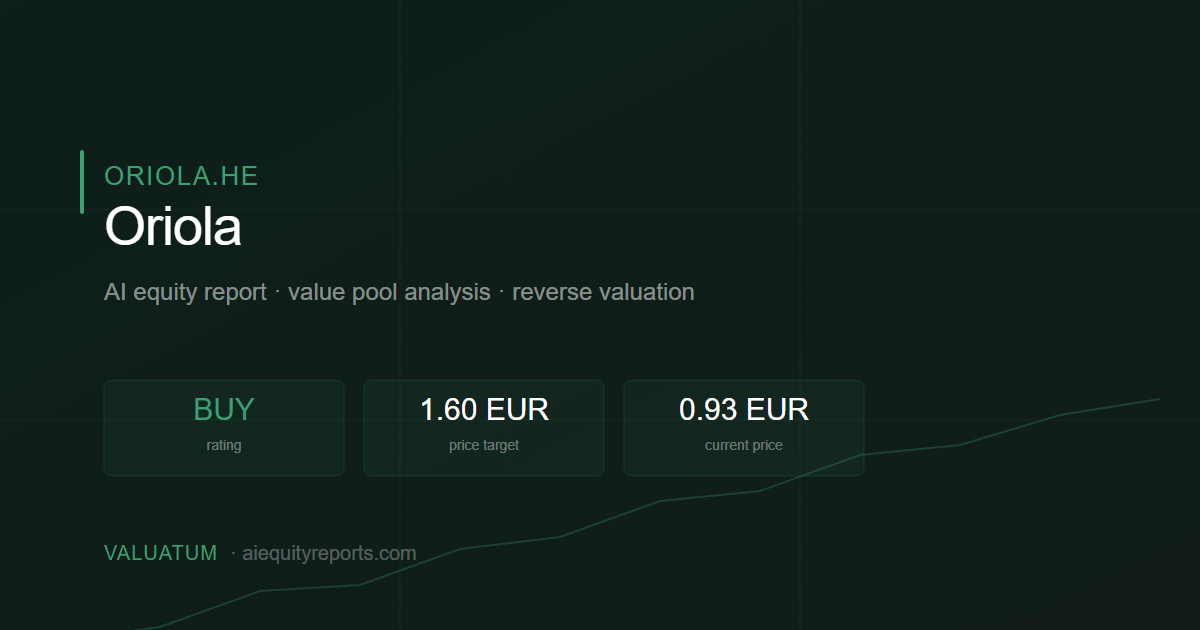
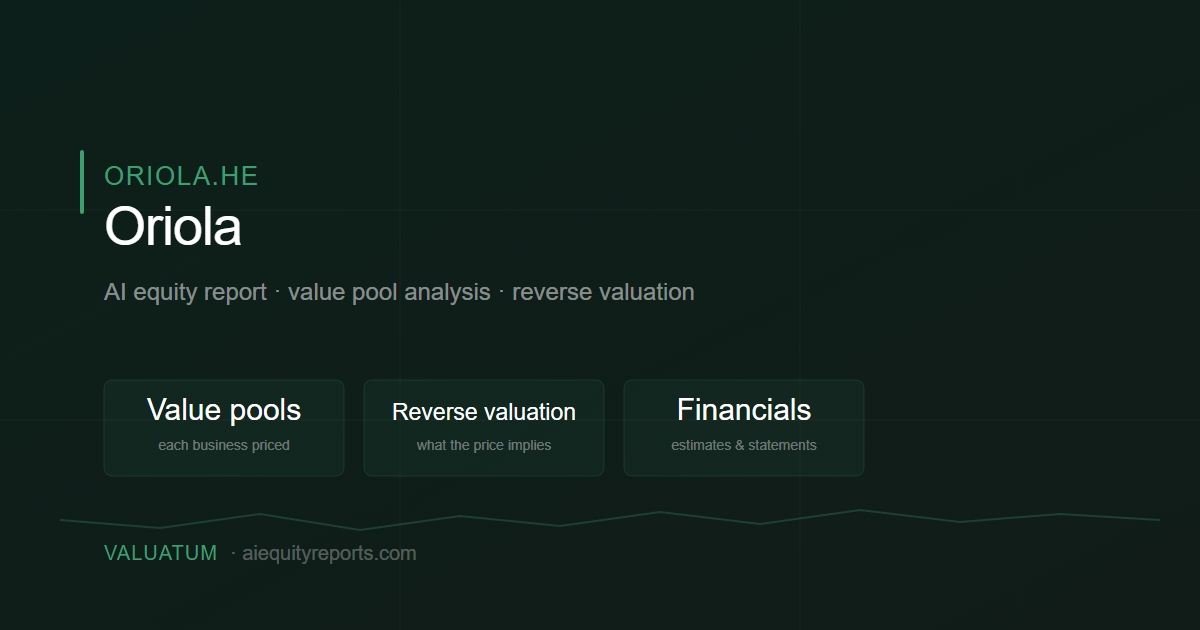
Keep the verdict off the surfaces that travel without the page
A title and a share card go where the page does not. A search result reading
"SELL, €17.10 Target" carries none of the "AI-generated research, not
investment advice" the page carries, and an AI answer repeats the verdict
stripped of every qualifier around it. Whether we publish recommendations in
that form is a compliance question and it is still open, so the default is now
not to.

scripts/seo-flags.mjs is the single switch. Off, it removes the rating and
target from <title>, og:title, og:/twitter:description and the card art --
including the accent colour and the slope of the trend line, which state a
verdict without words. The 17 affected pages read "Stock Analysis & Price
Target", which also keeps them distinct from the 1,157 overview pages instead
of competing for the same query.

The SEO cost is small and worth naming: the win was title LENGTH, median 108
characters against Google's ~60, and that is untouched. Only 17 of 1,174 pages
ever carried a rating.

What this deliberately does NOT change: <meta name="description"> still states
the rating, and so do the page body above the paywall and llms.txt. Those are
the wider publication decision, not a share-card one, and changing the snippet
silently would be the wrong call to make on someone's behalf. The flag is
named for metadata, not for compliance: turning it on does not make the site
compliant, and leaving it off does not make it silent.
[…]

diff --git a/reports/recursion-pharmaceuticals-equity-report.html b/reports/recursion-pharmaceuticals-equity-report.html
@@ -3,21 +3,21 @@
 <head>
   <meta charset="UTF-8">
   <meta name="viewport" content="width=device-width, initial-scale=1.0">
-  <title>Recursion Pharmaceuticals (RXRX) Stock Analysis — SELL $4.10</title>
+  <title>Recursion Pharmaceuticals (RXRX) Stock Analysis &amp; Valuation</title>
   <meta name="description" content="Recursion Pharmaceuticals (RXRX) stock analysis &amp; AI equity report: Valuatum rates RXRX SELL with a 4.10 USD price target vs 4.84 USD. Share price forecast, valuation, segment-value analysis, reverse valuation, financials, risks &amp; catalysts.">
   <link rel="canonical" href="https://www.aiequityreports.com/reports/recursion-pharmaceuticals-equity-report.html">
   <meta name="robots" content="index, follow, max-image-preview:large, max-snippet:-1">
   <meta name="valuatum-report-id" content="recursion-02062026">
   <meta name="valuatum-page-mode" content="paid">
-  <meta property="og:title" content="Recursion Pharmaceuticals (RXRX) Stock Analysis — SELL $4.10">
-  <meta property="og:description" content="Recursion Pharmaceuticals (RXRX) stock analysis &amp; AI equity report: Valuatum rates RXRX SELL with a 4.10 USD price target vs 4.84 USD. Share price forecast, valuation, segment-value analysis, reverse valuation, financials, risks &amp; catalysts.">
+  <meta property="og:title" content="Recursion Pharmaceuticals (RXRX) Stock Analysis &amp; Valuation">
+  <meta property="og:description" content="Recursion Pharmaceuticals (RXRX) stock analysis &amp; AI equity report: segment-value analysis, reverse valuation, financial estimates, risks &amp; catalysts, with a 12-month price target.">
   <meta property="og:type" content="article">
   <meta property="og:url" content="https://www.aiequityreports.com/reports/recursion-pharmaceuticals-equity-report.html">
   <meta property="og:image" content="https://www.aiequityreports.com/images/og/recursion-pharmaceuticals-equity-report.png">
   <meta property="article:published_time" content="2026-06-02">
   <meta name="twitter:card" content="summary_large_image">
   <meta name="twitter:title" content="Recursion Pharmaceuticals (RXRX) AI Equity Report">
-  <meta name="twitter:description" content="Recursion Pharmaceuticals (RXRX) stock analysis &amp; AI equity report: Valuatum rates RXRX SELL with a 4.10 USD price target vs 4.84 USD. Share price forecast, valuation, segment-value analysis, reverse valuation, financials, risks &amp; catalysts.">
+  <meta name="twitter:description" content="Recursion Pharmaceuticals (RXRX) stock analysis &amp; AI equity report: segment-value analysis, reverse valuation, financial estimates, risks &amp; catalysts, with a 12-month price target.">
   <meta name="twitter:image" content="https://www.aiequityreports.com/images/og/recursion-pharmaceuticals-equity-report.png">
   <script async src="https://www.googletagmanager.com/gtag/js?id=G-HSRL85C0K5"></script>
   <script>window.dataLayer=window.dataLayer||[];function gtag(){dataLayer.push(arguments);}gtag('js',new Date());gtag('config','G-HSRL85C0K5');</script>

diff --git a/reports/advanced-micro-devices-equity-report.html b/reports/advanced-micro-devices-equity-report.html
@@ -3,21 +3,21 @@
 <head>
   <meta charset="UTF-8">
   <meta name="viewport" content="width=device-width, initial-scale=1.0">
-  <title>Advanced Micro Devices (AMD) Stock Analysis — HOLD $490.50</title>
+  <title>Advanced Micro Devices (AMD) Stock Analysis &amp; Price Target</title>
   <meta name="description" content="Advanced Micro Devices (AMD) stock analysis &amp; AI equity report: Valuatum rates AMD HOLD with a 490.50 USD price target vs 482.05 USD. Share price forecast, valuation, segment-value analysis, reverse valuation, financials, risks &amp; catalysts.">
   <link rel="canonical" href="https://www.aiequityreports.com/reports/advanced-micro-devices-equity-report.html">
   <meta name="robots" content="index, follow, max-image-preview:large, max-snippet:-1">
   <meta name="valuatum-report-id" content="advancedmicrodevices-06082026">
   <meta name="valuatum-page-mode" content="paid">
-  <meta property="og:title" content="Advanced Micro Devices (AMD) Stock Analysis — HOLD $490.50">
-  <meta property="og:description" content="Advanced Micro Devices (AMD) stock analysis &amp; AI equity report: Valuatum rates AMD HOLD with a 490.50 USD price target vs 482.05 USD. Share price forecast, valuation, segment-value analysis, reverse valuation, financials, risks &amp; catalysts.">
+  <meta property="og:title" content="Advanced Micro Devices (AMD) Stock Analysis &amp; Price Target">
+  <meta property="og:description" content="Advanced Micro Devices (AMD) stock analysis &amp; AI equity report: segment-value analysis, reverse valuation, financial estimates, risks &amp; catalysts, with a 12-month price target.">
   <meta property="og:type" content="article">
   <meta property="og:url" content="https://www.aiequityreports.com/reports/advanced-micro-devices-equity-report.html">
   <meta property="og:image" content="https://www.aiequityreports.com/images/og/advanced-micro-devices-equity-report.png">
   <meta property="article:published_time" content="2026-08-06">
   <meta name="twitter:card" content="summary_large_image">
   <meta name="twitter:title" content="Advanced Micro Devices (AMD) AI Equity Report">
-  <meta name="twitter:description" content="Advanced Micro Devices (AMD) stock analysis &amp; AI equity report: Valuatum rates AMD HOLD with a 490.50 USD price target vs 482.05 USD. Share price forecast, valuation, segment-value analysis, reverse valuation, financials, risks &amp; catalysts.">
+  <meta name="twitter:description" content="Advanced Micro Devices (AMD) stock analysis &amp; AI equity report: segment-value analysis, reverse valuation, financial estimates, risks &amp; catalysts, with a 12-month price target.">
   <meta name="twitter:image" content="https://www.aiequityreports.com/images/og/advanced-micro-devices-equity-report.png">
   <script async src="https://www.googletagmanager.com/gtag/js?id=G-HSRL85C0K5"></script>
   <script>window.dataLayer=window.dataLayer||[];function gtag(){dataLayer.push(arguments);}gtag('js',new Date());gtag('config','G-HSRL85C0K5');</script>

diff --git a/reports/novo-nordisk-equity-report.html b/reports/novo-nordisk-equity-report.html
@@ -3,21 +3,21 @@
 <head>
   <meta charset="UTF-8">
   <meta name="viewport" content="width=device-width, initial-scale=1.0">
-  <title>Novo Nordisk A/S (NOVO-B.CO) Stock Analysis — BUY 404.50 DKK</title>
+  <title>Novo Nordisk A/S (NOVO-B.CO) Stock Analysis &amp; Price Target</title>
   <meta name="description" content="Novo Nordisk A/S (NOVO-B.CO) stock analysis &amp; AI equity report: Valuatum rates NOVO-B.CO BUY with a 404.50 DKK price target vs 300.15 DKK. Share price forecast, valuation, segment-value analysis, reverse valuation, financials, risks &amp; catalysts.">
   <link rel="canonical" href="https://www.aiequityreports.com/reports/novo-nordisk-equity-report.html">
   <meta name="robots" content="index, follow, max-image-preview:large, max-snippet:-1">
   <meta name="valuatum-report-id" content="novonordisk-20082026">
   <meta name="valuatum-page-mode" content="paid">
-  <meta property="og:title" content="Novo Nordisk A/S (NOVO-B.CO) Stock Analysis — BUY 404.50 DKK">
-  <meta property="og:description" content="Novo Nordisk A/S (NOVO-B.CO) stock analysis &amp; AI equity report: Valuatum rates NOVO-B.CO BUY with a 404.50 DKK price target vs 300.15 DKK. Share price forecast, valuation, segment-value analysis, reverse valuation, financials, risks &amp; catalysts.">
+  <meta property="og:title" content="Novo Nordisk A/S (NOVO-B.CO) Stock Analysis &amp; Price Target">
+  <meta property="og:description" content="Novo Nordisk A/S (NOVO-B.CO) stock analysis &amp; AI equity report: segment-value analysis, reverse valuation, financial estimates, risks &amp; catalysts, with a 12-month price target.">
   <meta property="og:type" content="article">
   <meta property="og:url" content="https://www.aiequityreports.com/reports/novo-nordisk-equity-report.html">
   <meta property="og:image" content="https://www.aiequityreports.com/images/og/novo-nordisk-equity-report.png">
   <meta property="article:published_time" content="2026-08-20">
   <meta name="twitter:card" content="summary_large_image">
   <meta name="twitter:title" content="Novo Nordisk A/S (NOVO-B.CO) AI Equity Report">
-  <meta name="twitter:description" content="Novo Nordisk A/S (NOVO-B.CO) stock analysis &amp; AI equity report: Valuatum rates NOVO-B.CO BUY with a 404.50 DKK price target vs 300.15 DKK. Share price forecast, valuation, segment-value analysis, reverse valuation, financials, risks &amp; catalysts.">
+  <meta name="twitter:description" content="Novo Nordisk A/S (NOVO-B.CO) stock analysis &amp; AI equity report: segment-value analysis, reverse valuation, financial estimates, risks &amp; catalysts, with a 12-month price target.">
   <meta name="twitter:image" content="https://www.aiequityreports.com/images/og/novo-nordisk-equity-report.png">
   <script async src="https://www.googletagmanager.com/gtag/js?id=G-HSRL85C0K5"></script>
   <script>window.dataLayer=window.dataLayer||[];function gtag(){dataLayer.push(arguments);}gtag('js',new Date());gtag('config','G-HSRL85C0K5');</script>

diff --git a/reports/wartsila-equity-report.html b/reports/wartsila-equity-report.html
@@ -3,21 +3,21 @@
 <head>
   <meta charset="UTF-8">
   <meta name="viewport" content="width=device-width, initial-scale=1.0">
-  <title>Wärtsilä Oyj Abp (WRT1V.HE) Stock Analysis — HOLD €32.10</title>
+  <title>Wärtsilä Oyj Abp (WRT1V.HE) Stock Analysis &amp; Price Target</title>
   <meta name="description" content="Wärtsilä Oyj Abp (WRT1V.HE) stock analysis &amp; AI equity report: Valuatum rates WRT1V.HE HOLD with a 32.10 EUR price target vs 31.89 EUR. Share price forecast, valuation, segment-value analysis, reverse valuation, financials, risks &amp; catalysts.">
   <link rel="canonical" href="https://www.aiequityreports.com/reports/wartsila-equity-report.html">
   <meta name="robots" content="index, follow, max-image-preview:large, max-snippet:-1">
   <meta name="valuatum-report-id" content="wartsila-07072026">
   <meta name="valuatum-page-mode" content="paid">
-  <meta property="og:title" content="Wärtsilä Oyj Abp (WRT1V.HE) Stock Analysis — HOLD €32.10">
-  <meta property="og:description" content="Wärtsilä Oyj Abp (WRT1V.HE) stock analysis &amp; AI equity report: Valuatum rates WRT1V.HE HOLD with a 32.10 EUR price target vs 31.89 EUR. Share price forecast, valuation, segment-value analysis, reverse valuation, financials, risks &amp; catalysts.">
+  <meta property="og:title" content="Wärtsilä Oyj Abp (WRT1V.HE) Stock Analysis &amp; Price Target">
+  <meta property="og:description" content="Wärtsilä Oyj Abp (WRT1V.HE) stock analysis &amp; AI equity report: segment-value analysis, reverse valuation, financial estimates, risks &amp; catalysts, with a 12-month price target.">
   <meta property="og:type" content="article">
   <meta property="og:url" content="https://www.aiequityreports.com/reports/wartsila-equity-report.html">
   <meta property="og:image" content="https://www.aiequityreports.com/images/og/wartsila-equity-report.png">
   <meta property="article:published_time" content="2026-07-07">
   <meta name="twitter:card" content="summary_large_image">
   <meta name="twitter:title" content="Wärtsilä Oyj Abp (WRT1V.HE) AI Equity Report">
-  <meta name="twitter:description" content="Wärtsilä Oyj Abp (WRT1V.HE) stock analysis &amp; AI equity report: Valuatum rates WRT1V.HE HOLD with a 32.10 EUR price target vs 31.89 EUR. Share price forecast, valuation, segment-value analysis, reverse valuation, financials, risks &amp; catalysts.">
+  <meta name="twitter:description" content="Wärtsilä Oyj Abp (WRT1V.HE) stock analysis &amp; AI equity report: segment-value analysis, reverse valuation, financial estimates, risks &amp; catalysts, with a 12-month price target.">
   <meta name="twitter:image" content="https://www.aiequityreports.com/images/og/wartsila-equity-report.png">
   <script async src="https://www.googletagmanager.com/gtag/js?id=G-HSRL85C0K5"></script>
   <script>window.dataLayer=window.dataLayer||[];function gtag(){dataLayer.push(arguments);}gtag('js',new Date());gtag('config','G-HSRL85C0K5');</script>

diff --git a/reports/pandora-equity-report.html b/reports/pandora-equity-report.html
@@ -3,21 +3,21 @@
 <head>
   <meta charset="UTF-8">
   <meta name="viewport" content="width=device-width, initial-scale=1.0">
-  <title>Pandora A/S (PNDORA.CO) Stock Analysis — BUY 1112.30 DKK</title>
+  <title>Pandora A/S (PNDORA.CO) Stock Analysis &amp; Price Target</title>
   <meta name="description" content="Pandora A/S (PNDORA.CO) stock analysis &amp; AI equity report: Valuatum rates PNDORA.CO BUY with a 1,112.30 DKK price target vs 807.40 DKK. Share price forecast, valuation, segment-value analysis, reverse valuation, financials, risks &amp; catalysts.">
   <link rel="canonical" href="https://www.aiequityreports.com/reports/pandora-equity-report.html">
   <meta name="robots" content="index, follow, max-image-preview:large, max-snippet:-1">
   <meta name="valuatum-report-id" content="pandoraas-30072026">
   <meta name="valuatum-page-mode" content="paid">
-  <meta property="og:title" content="Pandora A/S (PNDORA.CO) Stock Analysis — BUY 1112.30 DKK">
-  <meta property="og:description" content="Pandora A/S (PNDORA.CO) stock analysis &amp; AI equity report: Valuatum rates PNDORA.CO BUY with a 1,112.30 DKK price target vs 807.40 DKK. Share price forecast, valuation, segment-value analysis, reverse valuation, financials, risks &amp; catalysts.">
+  <meta property="og:title" content="Pandora A/S (PNDORA.CO) Stock Analysis &amp; Price Target">
+  <meta property="og:description" content="Pandora A/S (PNDORA.CO) stock analysis &amp; AI equity report: segment-value analysis, reverse valuation, financial estimates, risks &amp; catalysts, with a 12-month price target.">
   <meta property="og:type" content="article">
   <meta property="og:url" content="https://www.aiequityreports.com/reports/pandora-equity-report.html">
   <meta property="og:image" content="https://www.aiequityreports.com/images/og/pandora-equity-report.png">
   <meta property="article:published_time" content="2026-07-30">
   <meta name="twitter:card" content="summary_large_image">
   <meta name="twitter:title" content="Pandora A/S (PNDORA.CO) AI Equity Report">
-  <meta name="twitter:description" content="Pandora A/S (PNDORA.CO) stock analysis &amp; AI equity report: Valuatum rates PNDORA.CO BUY with a 1,112.30 DKK price target vs 807.40 DKK. Share price forecast, valuation, segment-value analysis, reverse valuation, financials, risks &amp; catalysts.">
+  <meta name="twitter:description" content="Pandora A/S (PNDORA.CO) stock analysis &amp; AI equity report: segment-value analysis, reverse valuation, financial estimates, risks &amp; catalysts, with a 12-month price target.">
   <meta name="twitter:image" content="https://www.aiequityreports.com/images/og/pandora-equity-report.png">
   <script async src="https://www.googletagmanager.com/gtag/js?id=G-HSRL85C0K5"></script>
   <script>window.dataLayer=window.dataLayer||[];function gtag(){dataLayer.push(arguments);}gtag('js',new Date());gtag('config','G-HSRL85C0K5');</script>

diff --git a/reports/stora-enso-equity-report.html b/reports/stora-enso-equity-report.html
@@ -3,21 +3,21 @@
 <head>
   <meta charset="UTF-8">
   <meta name="viewport" content="width=device-width, initial-scale=1.0">
-  <title>Stora Enso (STERV.HE) Stock Analysis — BUY, €15.80 Target</title>
+  <title>Stora Enso (STERV.HE) Stock Analysis &amp; Price Target</title>
   <meta name="description" content="Stora Enso (STERV.HE) stock analysis &amp; AI equity report: Valuatum rates STERV.HE BUY with a 15.80 EUR price target vs 9.44 EUR. Share price forecast, valuation, segment-value analysis, reverse valuation, financials, risks &amp; catalysts.">
   <link rel="canonical" href="https://www.aiequityreports.com/reports/stora-enso-equity-report.html">
   <meta name="robots" content="index, follow, max-image-preview:large, max-snippet:-1">
   <meta name="valuatum-report-id" content="storaenso-18082026">
   <meta name="valuatum-page-mode" content="free">
-  <meta property="og:title" content="Stora Enso (STERV.HE) Stock Analysis — BUY, €15.80 Target">
-  <meta property="og:description" content="Stora Enso (STERV.HE) stock analysis &amp; AI equity report: Valuatum rates STERV.HE BUY with a 15.80 EUR price target vs 9.44 EUR. Share price forecast, valuation, segment-value analysis, reverse valuation, financials, risks &amp; catalysts.">
+  <meta property="og:title" content="Stora Enso (STERV.HE) Stock Analysis &amp; Price Target">
+  <meta property="og:description" content="Stora Enso (STERV.HE) stock analysis &amp; AI equity report: segment-value analysis, reverse valuation, financial estimates, risks &amp; catalysts, with a 12-month price target.">
   <meta property="og:type" content="article">
   <meta property="og:url" content="https://www.aiequityreports.com/reports/stora-enso-equity-report.html">
   <meta property="og:image" content="https://www.aiequityreports.com/images/og/stora-enso-equity-report.png">
   <meta property="article:published_time" content="2026-08-18">
   <meta name="twitter:card" content="summary_large_image">
   <meta name="twitter:title" content="Stora Enso (STERV.HE) AI Equity Report">
-  <meta name="twitter:description" content="Stora Enso (STERV.HE) stock analysis &amp; AI equity report: Valuatum rates STERV.HE BUY with a 15.80 EUR price target vs 9.44 EUR. Share price forecast, valuation, segment-value analysis, reverse valuation, financials, risks &amp; catalysts.">
+  <meta name="twitter:description" content="Stora Enso (STERV.HE) stock analysis &amp; AI equity report: segment-value analysis, reverse valuation, financial estimates, risks &amp; catalysts, with a 12-month price target.">
   <meta name="twitter:image" content="https://www.aiequityreports.com/images/og/stora-enso-equity-report.png">
   <script async src="https://www.googletagmanager.com/gtag/js?id=G-HSRL85C0K5"></script>
   <script>window.dataLayer=window.dataLayer||[];function gtag(){dataLayer.push(arguments);}gtag('js',new Date());gtag('config','G-HSRL85C0K5');</script>

diff --git a/reports/puuilo-equity-report.html b/reports/puuilo-equity-report.html
@@ -3,21 +3,21 @@
 <head>
   <meta charset="UTF-8">
   <meta name="viewport" content="width=device-width, initial-scale=1.0">
-  <title>Puuilo (PUUILO.HE) Stock Analysis — HOLD, €15.90 Target</title>
+  <title>Puuilo (PUUILO.HE) Stock Analysis &amp; Price Target</title>
   <meta name="description" content="Puuilo (PUUILO.HE) stock analysis &amp; AI equity report: Valuatum rates PUUILO.HE HOLD with a 15.90 EUR price target vs 17.22 EUR. Share price forecast, valuation, segment-value analysis, reverse valuation, financials, risks &amp; catalysts.">
   <link rel="canonical" href="https://www.aiequityreports.com/reports/puuilo-equity-report.html">
   <meta name="robots" content="index, follow, max-image-preview:large, max-snippet:-1">
   <meta name="valuatum-report-id" content="puuilooyj-29072026">
   <meta name="valuatum-page-mode" content="paid">
-  <meta property="og:title" content="Puuilo (PUUILO.HE) Stock Analysis — HOLD, €15.90 Target">
-  <meta property="og:description" content="Puuilo (PUUILO.HE) stock analysis &amp; AI equity report: Valuatum rates PUUILO.HE HOLD with a 15.90 EUR price target vs 17.22 EUR. Share price forecast, valuation, segment-value analysis, reverse valuation, financials, risks &amp; catalysts.">
+  <meta property="og:title" content="Puuilo (PUUILO.HE) Stock Analysis &amp; Price Target">
+  <meta property="og:description" content="Puuilo (PUUILO.HE) stock analysis &amp; AI equity report: segment-value analysis, reverse valuation, financial estimates, risks &amp; catalysts, with a 12-month price target.">
   <meta property="og:type" content="article">
   <meta property="og:url" content="https://www.aiequityreports.com/reports/puuilo-equity-report.html">
   <meta property="og:image" content="https://www.aiequityreports.com/images/og/puuilo-equity-report.png">
   <meta property="article:published_time" content="2026-07-29">
   <meta name="twitter:card" content="summary_large_image">
   <meta name="twitter:title" content="Puuilo (PUUILO.HE) AI Equity Report">
-  <meta name="twitter:description" content="Puuilo (PUUILO.HE) stock analysis &amp; AI equity report: Valuatum rates PUUILO.HE HOLD with a 15.90 EUR price target vs 17.22 EUR. Share price forecast, valuation, segment-value analysis, reverse valuation, financials, risks &amp; catalysts.">
+  <meta name="twitter:description" content="Puuilo (PUUILO.HE) stock analysis &amp; AI equity report: segment-value analysis, reverse valuation, financial estimates, risks &amp; catalysts, with a 12-month price target.">
   <meta name="twitter:image" content="https://www.aiequityreports.com/images/og/puuilo-equity-report.png">
   <script async src="https://www.googletagmanager.com/gtag/js?id=G-HSRL85C0K5"></script>
   <script>window.dataLayer=window.dataLayer||[];function gtag(){dataLayer.push(arguments);}gtag('js',new Date());gtag('config','G-HSRL85C0K5');</script>

diff --git a/reports/upm-equity-report.html b/reports/upm-equity-report.html
@@ -3,21 +3,21 @@
 <head>
   <meta charset="UTF-8">
   <meta name="viewport" content="width=device-width, initial-scale=1.0">
-  <title>UPM-Kymmene (UPM.HE) Stock Analysis — BUY, €27.30 Target</title>
+  <title>UPM-Kymmene (UPM.HE) Stock Analysis &amp; Price Target</title>
   <meta name="description" content="UPM-Kymmene (UPM.HE) stock analysis &amp; AI equity report: Valuatum rates UPM.HE BUY with a 27.30 EUR price target vs 23.40 EUR. Share price forecast, valuation, segment-value analysis, reverse valuation, financials, risks &amp; catalysts.">
   <link rel="canonical" href="https://www.aiequityreports.com/reports/upm-equity-report.html">
   <meta name="robots" content="index, follow, max-image-preview:large, max-snippet:-1">
   <meta name="valuatum-report-id" content="upm-06082026">
   <meta name="valuatum-page-mode" content="free">
-  <meta property="og:title" content="UPM-Kymmene (UPM.HE) Stock Analysis — BUY, €27.30 Target">
-  <meta property="og:description" content="UPM-Kymmene (UPM.HE) stock analysis &amp; AI equity report: Valuatum rates UPM.HE BUY with a 27.30 EUR price target vs 23.40 EUR. Share price forecast, valuation, segment-value analysis, reverse valuation, financials, risks &amp; catalysts.">
+  <meta property="og:title" content="UPM-Kymmene (UPM.HE) Stock Analysis &amp; Price Target">
+  <meta property="og:description" content="UPM-Kymmene (UPM.HE) stock analysis &amp; AI equity report: segment-value analysis, reverse valuation, financial estimates, risks &amp; catalysts, with a 12-month price target.">
   <meta property="og:type" content="article">
   <meta property="og:url" content="https://www.aiequityreports.com/reports/upm-equity-report.html">
   <meta property="og:image" content="https://www.aiequityreports.com/images/og/upm-equity-report.png">
   <meta property="article:published_time" content="2026-08-06">
   <meta name="twitter:card" content="summary_large_image">
   <meta name="twitter:title" content="UPM-Kymmene (UPM.HE) AI Equity Report">
-  <meta name="twitter:description" content="UPM-Kymmene (UPM.HE) stock analysis &amp; AI equity report: Valuatum rates UPM.HE BUY with a 27.30 EUR price target vs 23.40 EUR. Share price forecast, valuation, segment-value analysis, reverse valuation, financials, risks &amp; catalysts.">
+  <meta name="twitter:description" content="UPM-Kymmene (UPM.HE) stock analysis &amp; AI equity report: segment-value analysis, reverse valuation, financial estimates, risks &amp; catalysts, with a 12-month price target.">
   <meta name="twitter:image" content="https://www.aiequityreports.com/images/og/upm-equity-report.png">
   <script async src="https://www.googletagmanager.com/gtag/js?id=G-HSRL85C0K5"></script>
   <script>window.dataLayer=window.dataLayer||[];function gtag(){dataLayer.push(arguments);}gtag('js',new Date());gtag('config','G-HSRL85C0K5');</script>

diff --git a/reports/oriola-equity-report.html b/reports/oriola-equity-report.html
@@ -3,21 +3,21 @@
 <head>
   <meta charset="UTF-8">
   <meta name="viewport" content="width=device-width, initial-scale=1.0">
-  <title>Oriola (ORIOLA.HE) Stock Analysis — BUY, €1.60 Target</title>
+  <title>Oriola (ORIOLA.HE) Stock Analysis &amp; Price Target</title>
   <meta name="description" content="Oriola (ORIOLA.HE) stock analysis &amp; AI equity report: Valuatum rates ORIOLA.HE BUY with a 1.60 EUR price target vs 0.93 EUR. Share price forecast, valuation, segment-value analysis, reverse valuation, financials, risks &amp; catalysts.">
   <link rel="canonical" href="https://www.aiequityreports.com/reports/oriola-equity-report.html">
   <meta name="robots" content="index, follow, max-image-preview:large, max-snippet:-1">
   <meta name="valuatum-report-id" content="oriola-07072026">
   <meta name="valuatum-page-mode" content="paid">
-  <meta property="og:title" content="Oriola (ORIOLA.HE) Stock Analysis — BUY, €1.60 Target">
-  <meta property="og:description" content="Oriola (ORIOLA.HE) stock analysis &amp; AI equity report: Valuatum rates ORIOLA.HE BUY with a 1.60 EUR price target vs 0.93 EUR. Share price forecast, valuation, segment-value analysis, reverse valuation, financials, risks &amp; catalysts.">
+  <meta property="og:title" content="Oriola (ORIOLA.HE) Stock Analysis &amp; Price Target">
+  <meta property="og:description" content="Oriola (ORIOLA.HE) stock analysis &amp; AI equity report: segment-value analysis, reverse valuation, financial estimates, risks &amp; catalysts, with a 12-month price target.">
   <meta property="og:type" content="article">
   <meta property="og:url" content="https://www.aiequityreports.com/reports/oriola-equity-report.html">
   <meta property="og:image" content="https://www.aiequityreports.com/images/og/oriola-equity-report.png">
   <meta property="article:published_time" content="2026-07-07">
   <meta name="twitter:card" content="summary_large_image">
   <meta name="twitter:title" content="Oriola (ORIOLA.HE) AI Equity Report">
-  <meta name="twitter:description" content="Oriola (ORIOLA.HE) stock analysis &amp; AI equity report: Valuatum rates ORIOLA.HE BUY with a 1.60 EUR price target vs 0.93 EUR. Share price forecast, valuation, segment-value analysis, reverse valuation, financials, risks &amp; catalysts.">
+  <meta name="twitter:description" content="Oriola (ORIOLA.HE) stock analysis &amp; AI equity report: segment-value analysis, reverse valuation, financial estimates, risks &amp; catalysts, with a 12-month price target.">
   <meta name="twitter:image" content="https://www.aiequityreports.com/images/og/oriola-equity-report.png">
   <script async src="https://www.googletagmanager.com/gtag/js?id=G-HSRL85C0K5"></script>
   <script>window.dataLayer=window.dataLayer||[];function gtag(){dataLayer.push(arguments);}gtag('js',new Date());gtag('config','G-HSRL85C0K5');</script>

diff --git a/reports/kesko-equity-report.html b/reports/kesko-equity-report.html
@@ -3,21 +3,21 @@
 <head>
   <meta charset="UTF-8">
   <meta name="viewport" content="width=device-width, initial-scale=1.0">
-  <title>Kesko (KESKOB.HE) Stock Analysis — SELL, €17.10 Target</title>
+  <title>Kesko (KESKOB.HE) Stock Analysis &amp; Price Target</title>
   <meta name="description" content="Kesko (KESKOB.HE) stock analysis &amp; AI equity report: Valuatum rates KESKOB.HE SELL with a 17.10 EUR price target vs 19.20 EUR. Share price forecast, valuation, segment-value analysis, reverse valuation, financials, risks &amp; catalysts.">
   <link rel="canonical" href="https://www.aiequityreports.com/reports/kesko-equity-report.html">
   <meta name="robots" content="index, follow, max-image-preview:large, max-snippet:-1">
   <meta name="valuatum-report-id" content="kesko-07072026">
   <meta name="valuatum-page-mode" content="paid">
-  <meta property="og:title" content="Kesko (KESKOB.HE) Stock Analysis — SELL, €17.10 Target">
-  <meta property="og:description" content="Kesko (KESKOB.HE) stock analysis &amp; AI equity report: Valuatum rates KESKOB.HE SELL with a 17.10 EUR price target vs 19.20 EUR. Share price forecast, valuation, segment-value analysis, reverse valuation, financials, risks &amp; catalysts.">
+  <meta property="og:title" content="Kesko (KESKOB.HE) Stock Analysis &amp; Price Target">
+  <meta property="og:description" content="Kesko (KESKOB.HE) stock analysis &amp; AI equity report: segment-value analysis, reverse valuation, financial estimates, risks &amp; catalysts, with a 12-month price target.">
   <meta property="og:type" content="article">
   <meta property="og:url" content="https://www.aiequityreports.com/reports/kesko-equity-report.html">
   <meta property="og:image" content="https://www.aiequityreports.com/images/og/kesko-equity-report.png">
   <meta property="article:published_time" content="2026-07-07">
   <meta name="twitter:card" content="summary_large_image">
   <meta name="twitter:title" content="Kesko (KESKOB.HE) AI Equity Report">
-  <meta name="twitter:description" content="Kesko (KESKOB.HE) stock analysis &amp; AI equity report: Valuatum rates KESKOB.HE SELL with a 17.10 EUR price target vs 19.20 EUR. Share price forecast, valuation, segment-value analysis, reverse valuation, financials, risks &amp; catalysts.">
+  <meta name="twitter:description" content="Kesko (KESKOB.HE) stock analysis &amp; AI equity report: segment-value analysis, reverse valuation, financial estimates, risks &amp; catalysts, with a 12-month price target.">
   <meta name="twitter:image" content="https://www.aiequityreports.com/images/og/kesko-equity-report.png">
   <script async src="https://www.googletagmanager.com/gtag/js?id=G-HSRL85C0K5"></script>
   <script>window.dataLayer=window.dataLayer||[];function gtag(){dataLayer.push(arguments);}gtag('js',new Date());gtag('config','G-HSRL85C0K5');</script>

diff --git a/reports/sandisk-equity-report.html b/reports/sandisk-equity-report.html
@@ -3,21 +3,21 @@
 <head>
   <meta charset="UTF-8">
   <meta name="viewport" content="width=device-width, initial-scale=1.0">
-  <title>Sandisk (SNDK) Stock Analysis — BUY, $1382.70 Target</title>
+  <title>Sandisk (SNDK) Stock Analysis &amp; Price Target</title>
   <meta name="description" content="Sandisk (SNDK) stock analysis &amp; AI equity report: Valuatum rates SNDK BUY with a 1,382.70 USD price target vs 1,212.21 USD. Share price forecast, valuation, segment-value analysis, reverse valuation, financials, risks &amp; catalysts.">
   <link rel="canonical" href="https://www.aiequityreports.com/reports/sandisk-equity-report.html">
   <meta name="robots" content="index, follow, max-image-preview:large, max-snippet:-1">
   <meta name="valuatum-report-id" content="sandiskcorporation-10082026">
   <meta name="valuatum-page-mode" content="paid">
-  <meta property="og:title" content="Sandisk (SNDK) Stock Analysis — BUY, $1382.70 Target">
-  <meta property="og:description" content="Sandisk (SNDK) stock analysis &amp; AI equity report: Valuatum rates SNDK BUY with a 1,382.70 USD price target vs 1,212.21 USD. Share price forecast, valuation, segment-value analysis, reverse valuation, financials, risks &amp; catalysts.">
+  <meta property="og:title" content="Sandisk (SNDK) Stock Analysis &amp; Price Target">
+  <meta property="og:description" content="Sandisk (SNDK) stock analysis &amp; AI equity report: segment-value analysis, reverse valuation, financial estimates, risks &amp; catalysts, with a 12-month price target.">
   <meta property="og:type" content="article">
   <meta property="og:url" content="https://www.aiequityreports.com/reports/sandisk-equity-report.html">
   <meta property="og:image" content="https://www.aiequityreports.com/images/og/sandisk-equity-report.png">
   <meta property="article:published_time" content="2026-08-10">
   <meta name="twitter:card" content="summary_large_image">
   <meta name="twitter:title" content="Sandisk (SNDK) AI Equity Report">
-  <meta name="twitter:description" content="Sandisk (SNDK) stock analysis &amp; AI equity report: Valuatum rates SNDK BUY with a 1,382.70 USD price target vs 1,212.21 USD. Share price forecast, valuation, segment-value analysis, reverse valuation, financials, risks &amp; catalysts.">
+  <meta name="twitter:description" content="Sandisk (SNDK) stock analysis &amp; AI equity report: segment-value analysis, reverse valuation, financial estimates, risks &amp; catalysts, with a 12-month price target.">
   <meta name="twitter:image" content="https://www.aiequityreports.com/images/og/sandisk-equity-report.png">
   <script async src="https://www.googletagmanager.com/gtag/js?id=G-HSRL85C0K5"></script>
   <script>window.dataLayer=window.dataLayer||[];function gtag(){dataLayer.push(arguments);}gtag('js',new Date());gtag('config','G-HSRL85C0K5');</script>

diff --git a/reports/nokia-equity-report.html b/reports/nokia-equity-report.html
@@ -3,21 +3,21 @@
 <head>
   <meta charset="UTF-8">
   <meta name="viewport" content="width=device-width, initial-scale=1.0">
-  <title>Nokia (NOKIA.HE) Stock Analysis — SELL, €9.40 Target</title>
+  <title>Nokia (NOKIA.HE) Stock Analysis &amp; Price Target</title>
   <meta name="description" content="Nokia (NOKIA.HE) stock analysis &amp; AI equity report: Valuatum rates NOKIA.HE SELL with a 9.40 EUR price target vs 10.28 EUR. Share price forecast, valuation, segment-value analysis, reverse valuation, financials, risks &amp; catalysts.">
   <link rel="canonical" href="https://www.aiequityreports.com/reports/nokia-equity-report.html">
   <meta name="robots" content="index, follow, max-image-preview:large, max-snippet:-1">
   <meta name="valuatum-report-id" content="nokia-15072026">
   <meta name="valuatum-page-mode" content="paid">
-  <meta property="og:title" content="Nokia (NOKIA.HE) Stock Analysis — SELL, €9.40 Target">
-  <meta property="og:description" content="Nokia (NOKIA.HE) stock analysis &amp; AI equity report: Valuatum rates NOKIA.HE SELL with a 9.40 EUR price target vs 10.28 EUR. Share price forecast, valuation, segment-value analysis, reverse valuation, financials, risks &amp; catalysts.">
+  <meta property="og:title" content="Nokia (NOKIA.HE) Stock Analysis &amp; Price Target">
+  <meta property="og:description" content="Nokia (NOKIA.HE) stock analysis &amp; AI equity report: segment-value analysis, reverse valuation, financial estimates, risks &amp; catalysts, with a 12-month price target.">
   <meta property="og:type" content="article">
   <meta property="og:url" content="https://www.aiequityreports.com/reports/nokia-equity-report.html">
   <meta property="og:image" content="https://www.aiequityreports.com/images/og/nokia-equity-report.png">
   <meta property="article:published_time" content="2026-07-15">
   <meta name="twitter:card" content="summary_large_image">
   <meta name="twitter:title" content="Nokia (NOKIA.HE) AI Equity Report">
-  <meta name="twitter:description" content="Nokia (NOKIA.HE) stock analysis &amp; AI equity report: Valuatum rates NOKIA.HE SELL with a 9.40 EUR price target vs 10.28 EUR. Share price forecast, valuation, segment-value analysis, reverse valuation, financials, risks &amp; catalysts.">
+  <meta name="twitter:description" content="Nokia (NOKIA.HE) stock analysis &amp; AI equity report: segment-value analysis, reverse valuation, financial estimates, risks &amp; catalysts, with a 12-month price target.">
   <meta name="twitter:image" content="https://www.aiequityreports.com/images/og/nokia-equity-report.png">
   <script async src="https://www.googletagmanager.com/gtag/js?id=G-HSRL85C0K5"></script>
   <script>window.dataLayer=window.dataLayer||[];function gtag(){dataLayer.push(arguments);}gtag('js',new Date());gtag('config','G-HSRL85C0K5');</script>
